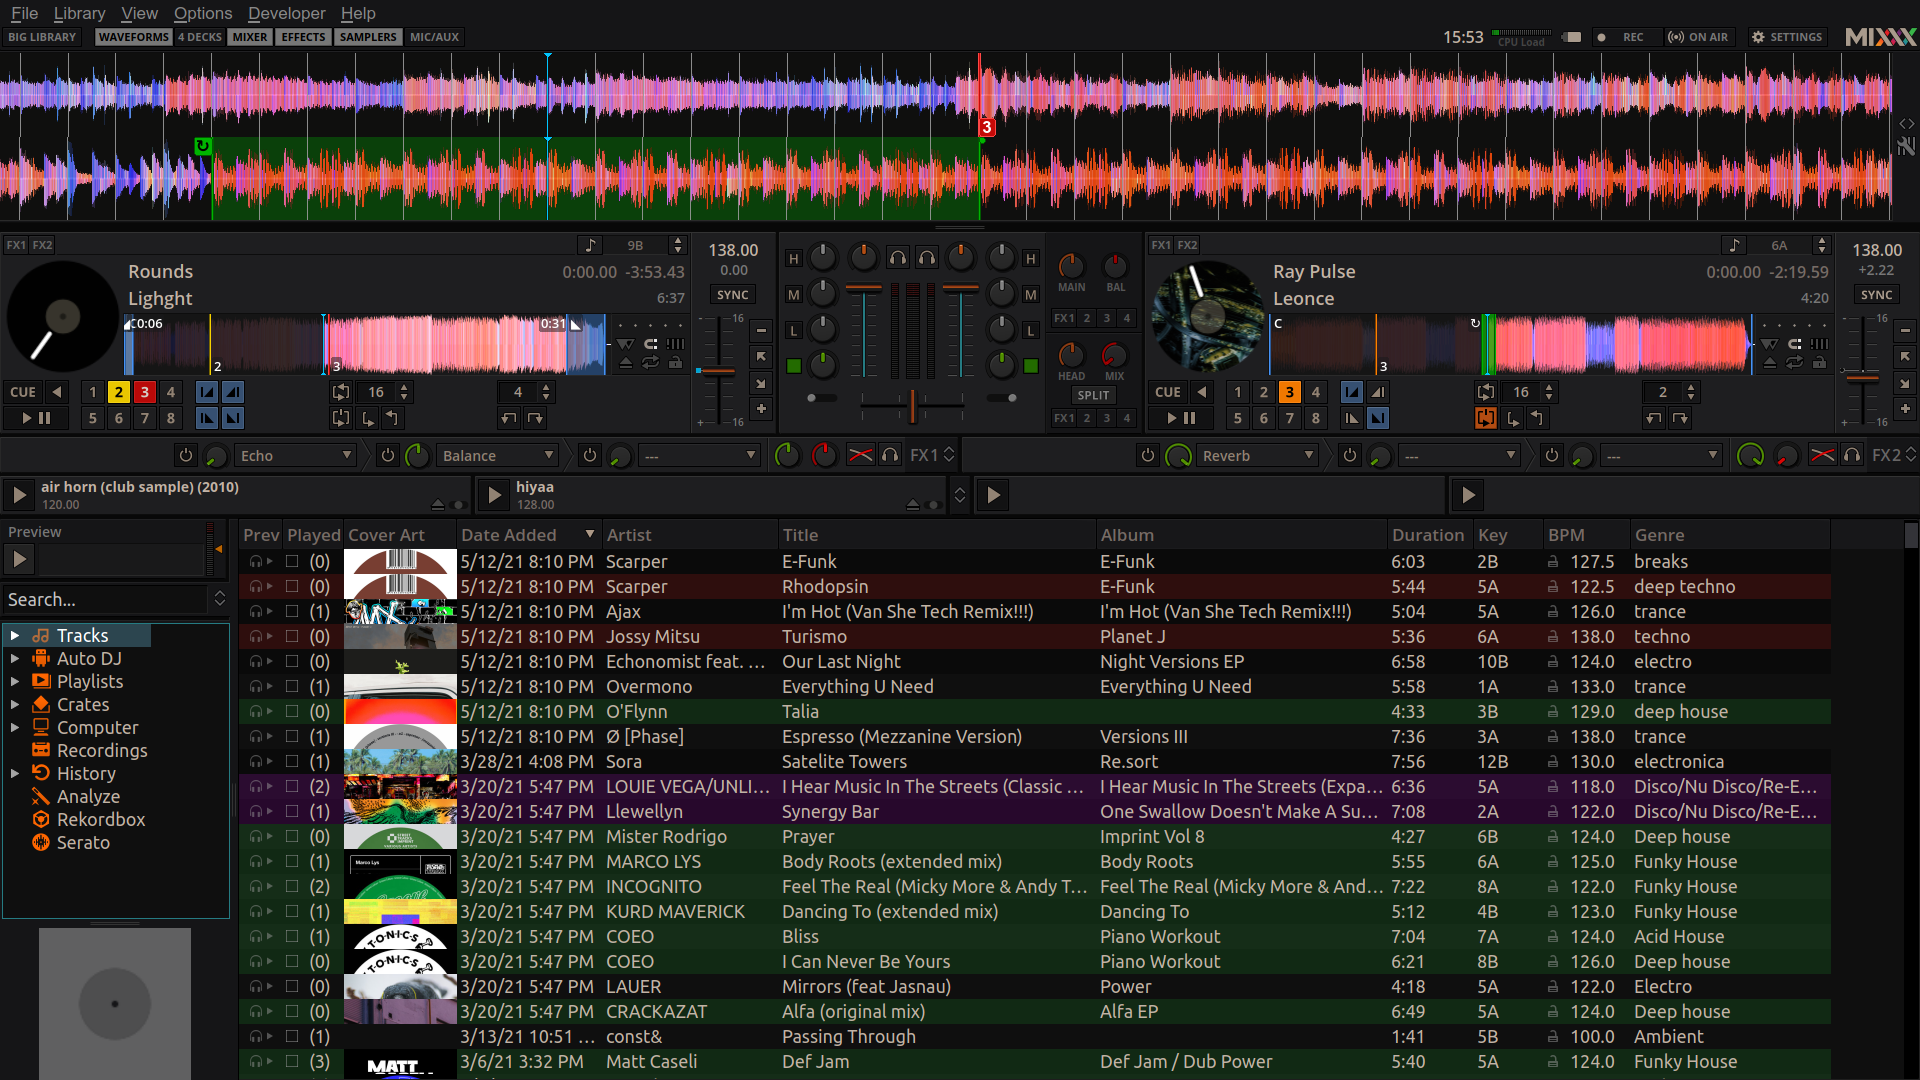
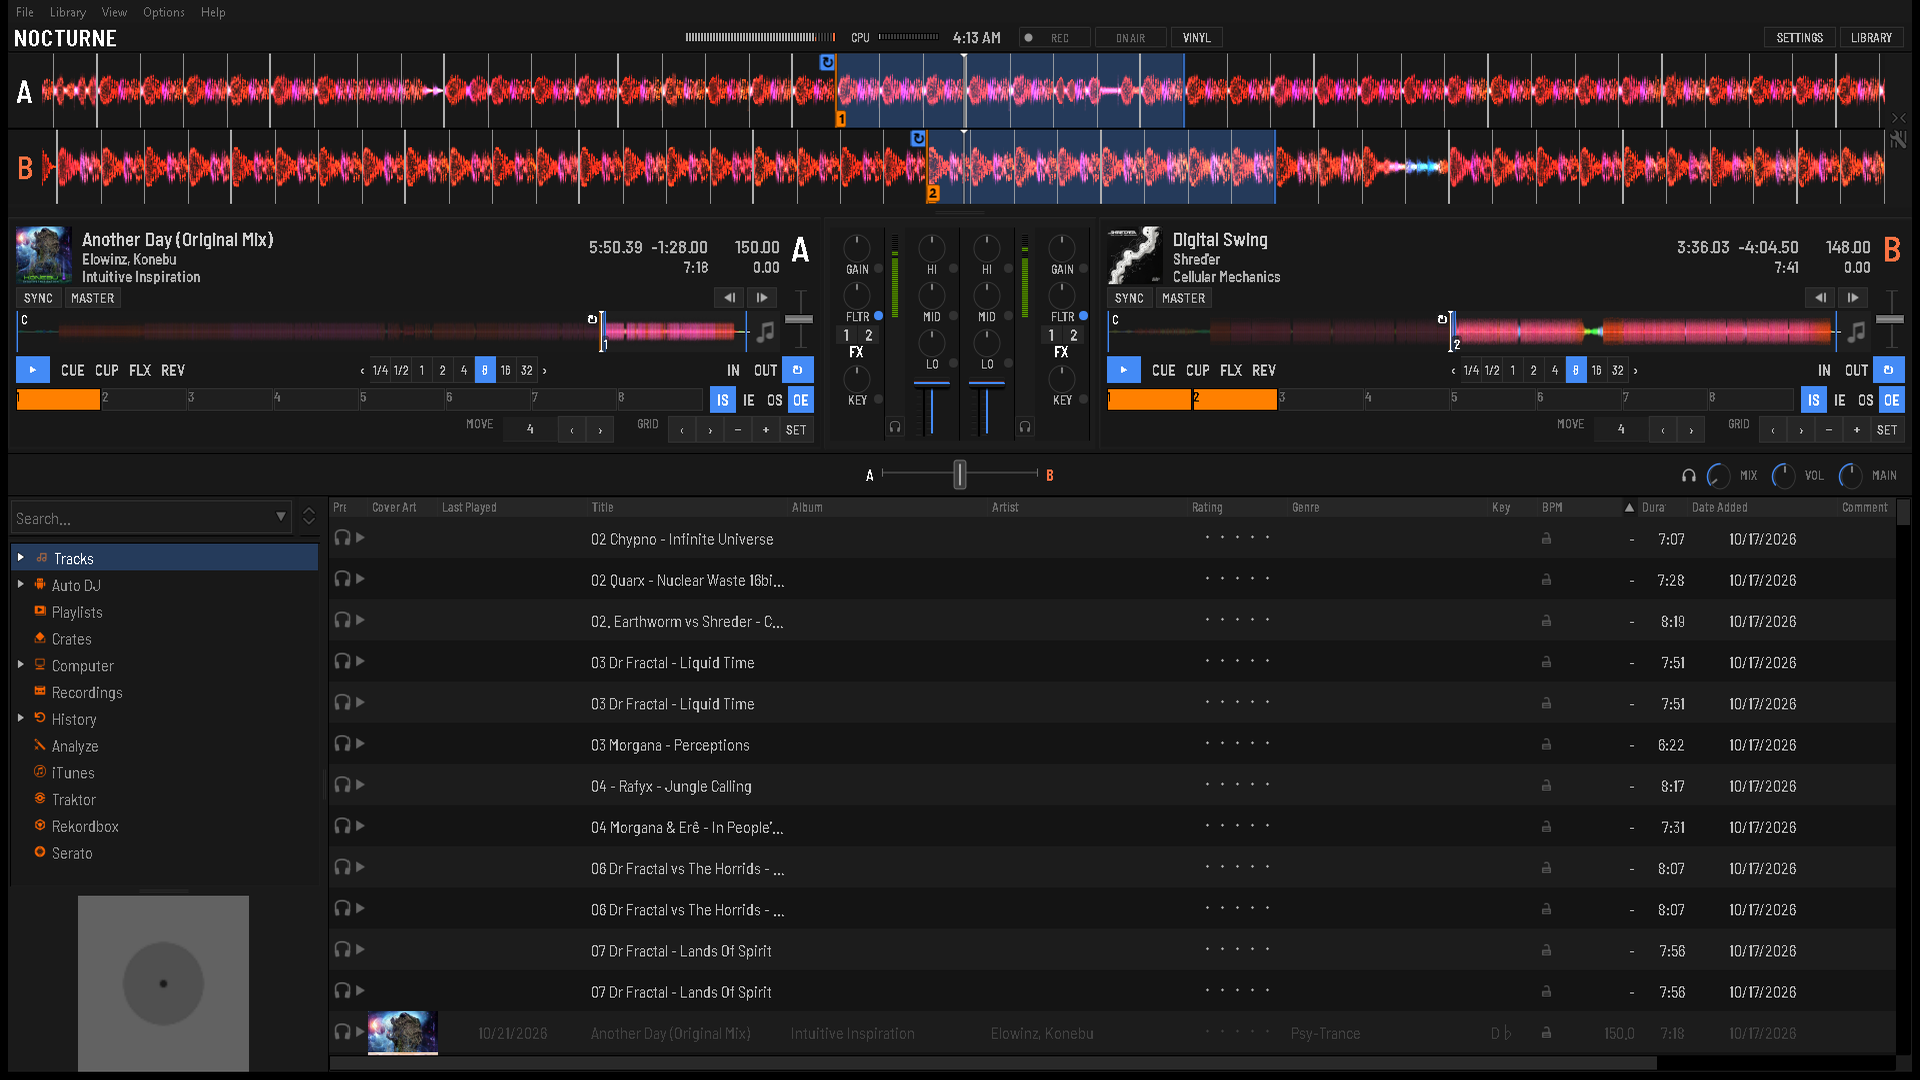
Nocturne: 1296x729 fit, vinyl panel, flat intro/outro cues, settings cleanup, preview (#81)

diff --git a/res/skins/Nocturne/NOTES.md b/res/skins/Nocturne/NOTES.md
@@ -14,6 +14,9 @@ LateNight and the other upstream skins are not edited. Spec: issue #71 in the pr
 Where Traktor shows something Mixxx has no control for, Nocturne drops it instead of faking it:
 
 - Favourites bar of playlists
+- Jump-to-start (|<) button left of the overview
+- Deck buttons with no Traktor counterpart on the full deck: eject, star rating, quantize, repeat, cue-position display, hotcue shift / undo / BPM-lock buttons (the controls still exist; use the library, shortcuts or the compact deck)
+- Per-deck vinyl status panel is only shown by the VINYL header toggle (in the SYNC row), not as always-visible buttons
 - Library status bar
 - "Parallel" layout dropdown
 - Phase meter above the overview
@@ -46,7 +49,7 @@ Where Traktor shows something Mixxx has no control for, Nocturne drops it instea
 - Every selection and active state is `#448bf6` (selected rows/items use `#253b5b`). Red stays for recording/clip/error, orange for
   warnings/pending.
 - Left as upstream: library sidebar feature icons (orange, from `res/images`), VU-meter PNGs.
-- `skin_preview_Nocturne.png` is currently LateNight's PaleMoon preview; replace it with a capture of the finished skin.
+- `skin_preview_Nocturne.png` is a 1920x1080 capture of the finished skin (two tracks loaded, Phosphor waveforms).
 
 ## Header (ticket #74)
 
@@ -73,3 +76,18 @@ Some `[Skin]` controls are created and used by C++ and have no Nocturne equivale
 ## Strip (#79)
 - 2 decks: crossfader, headphone MIX/VOL and main gain live in mixer/nocturne_strip.xml (row between decks and library, skin.xml DecksMixerContainer); mic/aux rack is the strip left part (hidden by default). 4 decks: strip hidden, old mixer crossfader + main/headphone column and the mic/aux row as before.
 - Dropped in the 2-deck mixer: per-channel crossfader assign switches, quick-effect preset selectors, headphone split button, booth gain, balance, main/headphone FX assign buttons.
+
+## Final pass (#81)
+- Screen sizes: the smallest reachable window is 1296x729 (skin MinimumSize 1280x668 plus Windows chrome; 1280x720 itself cannot be set). Mixxx skins have no
+  width media queries, so there is no automatic compact fallback: the default layout is made to fit by shrinking instead. Transport, loop and IN/OUT buttons are
+  fixed 30-34 px wide, loop-size cells shrink (21 px min), hotcue slots and the library flex. Nothing is clipped or overlaps at 1296x729. Lanes are ~45 px each there.
+  Use the Hotcues 4/8 setting or the Loop/Beatjump settings to save more room.
+- Settings: every setting in the pane was toggled once and works. Rate Adjust Buttons, Key Controls (full deck) and Hotcue Shift Buttons were removed from the pane because the
+  controls they gated no longer exist on Nocturne's full deck (rate fader is now gated by Rate Controls, the KEY knob and note icon are always shown). Compact (mixer hidden)
+  and mini decks keep LateNight's layout and old graphic buttons; they are readable but not restyled.
+- Intro/outro cue buttons are flat text: IS, IE (intro start/end), OS, OE (outro start/end); left click sets/jumps, right click clears, blue while set.
+- VINYL toggle: shows VINYL status, ABS/REL/CONST, CUE/HOT and PASS next to MASTER on each full deck.
+- Hotcue right-click opens Mixxx's cue menu (colour, label, delete); shift + right-click clears directly.
+- Known visual limits: library row height/thumbnail size is a Library preference; the 4-deck mixer and effect/sampler rows keep LateNight's controls (dark but dimmer); the time block shows
+  elapsed (+ remaining when the global time mode is "both") over track length.
+- Skin switching: Nocturne stores `[Nocturne],*`, LateNight `[Skin],*`; switching skins in `mixxx.cfg` and back left both untouched (checked).
